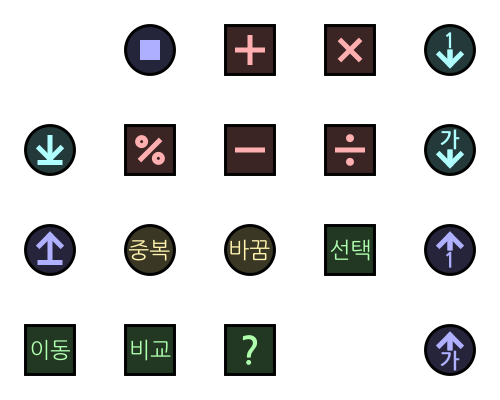
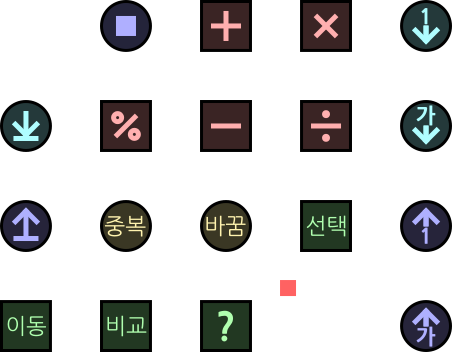
Implement breakpoint basic structure

diff --git a/src/renderer.js b/src/renderer.js
@@ -62,7 +62,8 @@ var commandMap = {
   'select': [3, 2],
   'move': [0, 3],
   'compare': [1, 3],
-  'condition': [2, 3]
+  'condition': [2, 3],
+  'breakpoint': [3, 3]
 };
 
 // http://stackoverflow.com/a/3368118/3317669
@@ -203,15 +204,23 @@ Renderer.prototype.updateTile = function(x, y) {
         100, 100, 0, 0, this.width, this.width);
     }
 
-    if (cacheTile.command != tile.command || cacheTile.data != tile.data) {
+    if (cacheTile.command != tile.command || cacheTile.data != tile.data
+      || cacheTile.breakpoint != tile.breakpoint) {
       cacheTile.command = tile.command;
       cacheTile.data = tile.data;
+      cacheTile.breakpoint = tile.breakpoint;
       var commandCtx = this.canvases.get('command');
       var commandPos = commandMap[tile.command];
       commandCtx.clearRect(0, 0, this.width, this.width);
       commandCtx.drawImage(this.sprites.get('command'),
         commandPos[0] * 100, commandPos[1] * 100,
         100, 100, 0, 0, this.width, this.width);
+      if (tile.breakpoint) {
+        commandPos = commandMap['breakpoint'];
+        commandCtx.drawImage(this.sprites.get('command'),
+          commandPos[0] * 100, commandPos[1] * 100,
+          100, 100, 0, 0, this.width, this.width);
+      }
       if (tile.data != null) {
         var text = '';
         if (tile.command == 'push') text = tile.data;

diff --git a/src/playback.js b/src/playback.js
@@ -33,6 +33,7 @@ Playback.prototype.step = function() {
   if(!this.interpreter || !this.renderer) return;
   this.interpreter.next();
   this.renderer.render();
+  if(this.interpreter.state.breakpoint) this.running = false;
   if(!this.interpreter.state.running) this.running = false;
   if(this.callback) this.callback();
 }

diff --git a/src/interpreter.js b/src/interpreter.js
@@ -233,6 +233,7 @@ Interpreter.prototype.next = function() {
       }
     }
   }
+  this.state.breakpoint = tile.breakpoint;
   // Just stop
   if (!this.state.running) return false;
   if (error) {
